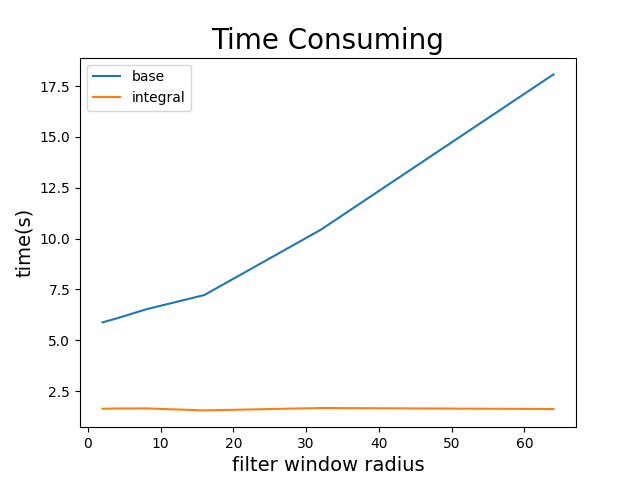
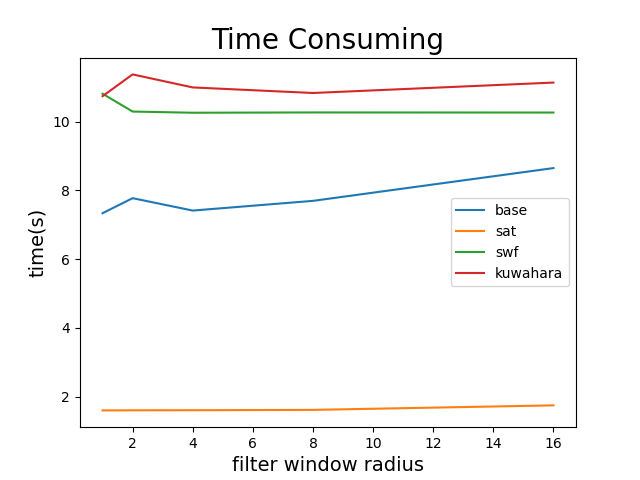
[feat] 添加 kuwaraha 实现

diff --git a/meanFilter/meanFilter.py b/meanFilter/meanFilter.py
@@ -100,7 +100,7 @@ def meanFilterSWF(im, radius):
     im_pad = np.zeros((im_h+2*radius+1, im_w+2*radius+1), im.dtype)
     im_pad[1:, 1:] = padding(im, radius)
 
-    # 计算积分图, nums用于记录每个block像素个数
+    # 计算积分图
     sat = np.cumsum(im_pad, axis=0)
     sat = np.cumsum(sat, axis=1)
 
@@ -173,6 +173,65 @@ def meanFilterSNN(im, radius):
             filtered[r-radius, c-radius] = np.mean(nn)
     return filtered
 
+def meanFilterKuwahara(im, radius):
+    '''
+    ### Docs: kuwahara均值滤波, 使用积分图加速
+        - "Smooth operator: Smoothing seismic interpretations and attributes", 2007
+        - 方差: 转换成一阶及二阶积分图, sum(xi^2)/n - u^2
+    ### Args:
+        - im: H*W, numpy.array, float, 单通道图像数据
+        - radius: int, 滤波窗口半径
+    ### Returns:
+        - filtered: 与 im 相同格式
+    ### Examples:
+    '''
+
+    im_h, im_w = im.shape
+    blk_size = (radius+1) * (radius+1)
+
+    # 向外扩充, 前面左边多增加1行1列, 方便计算
+    im_pad = np.zeros((im_h+2*radius+1, im_w+2*radius+1), im.dtype)
+    im_pad[1:, 1:] = padding(im, radius)
+    im_pad2 = im_pad ** 2
+
+    # 计算积分图
+    sat = np.cumsum(im_pad, axis=0)
+    sat = np.cumsum(sat, axis=1)
+    sat2 = np.cumsum(im_pad2, axis=0)
+    sat2 = np.cumsum(sat2, axis=1)
+
+    # 滤波
+    filtered = np.zeros((im_h, im_w), im.dtype)
+    for r in range(radius+1, im_h+radius+1):
+        bottom_r = r+radius
+        top_r = r-radius-1
+        for c in range(radius+1, im_w+radius+1):
+            right_c = c+radius
+            left_c = c-radius-1
+            blk_LU_std = sat2[r, c] - sat2[top_r, c] - sat2[r, left_c] + sat2[top_r, left_c]
+            blk_LU = sat[r, c] - sat[top_r, c] - sat[r, left_c] + sat[top_r, left_c]
+            blk_LU_std = blk_LU_std - blk_LU ** 2 / blk_size
+
+            blk_LD_std = sat2[bottom_r, c] - sat2[r-1, c] - sat2[bottom_r, left_c] + sat2[r-1, left_c]
+            blk_LD = sat[bottom_r, c] - sat[r-1, c] - sat[bottom_r, left_c] + sat[r-1, left_c]
+            blk_LD_std = blk_LD_std - blk_LD ** 2 / blk_size
+
+            blk_RD_std = sat2[bottom_r, right_c] - sat2[r-1, right_c] - sat2[bottom_r, c-1] + sat2[r-1, c-1]
+            blk_RD = sat[bottom_r, right_c] - sat[r-1, right_c] - sat[bottom_r, c-1] + sat[r-1, c-1]
+            blk_RD_std = blk_RD_std - blk_RD ** 2 / blk_size
+
+            blk_RU_std = sat2[r, right_c] - sat2[top_r, right_c] - sat2[r, c-1] + sat2[top_r, c-1]
+            blk_RU = sat[r, right_c] - sat[top_r, right_c] - sat[r, c-1] + sat[top_r, c-1]
+            blk_RU_std = blk_RU_std - blk_RU ** 2 / blk_size
+
+            stds = [blk_LU_std, blk_LD_std, blk_RD_std, blk_RU_std]
+            means = [blk_LU, blk_LD, blk_RD, blk_RU]
+            idx = np.argmin(stds)
+            
+            filtered[r-radius-1, c-radius-1] = means[idx]
+    filtered = filtered / blk_size
+    return filtered
+
 if __name__ == '__main__':
 
     from PIL import Image
@@ -182,30 +241,13 @@ if __name__ == '__main__':
     im = Image.open(img_path)
     im = np.array(im, dtype=float)
 
-    mean_base = np.zeros(im.shape, im.dtype)
-    mean_sat = np.zeros(im.shape, im.dtype)
-    mean_swf = np.zeros(im.shape, im.dtype)
-    mean_snn = np.zeros(im.shape, im.dtype)
-
     radius = 3
 
+    # base
+    mean_base = np.zeros(im.shape, im.dtype)
     mean_base[:,:,0] = meanFilterBase(im[:,:,0], radius)
     mean_base[:,:,1] = meanFilterBase(im[:,:,1], radius)
     mean_base[:,:,2] = meanFilterBase(im[:,:,2], radius)
-
-    mean_sat[:,:,0] = meanFilterSat(im[:,:,0], radius)
-    mean_sat[:,:,1] = meanFilterSat(im[:,:,1], radius)
-    mean_sat[:,:,2] = meanFilterSat(im[:,:,2], radius)
-
-    mean_swf[:,:,0] = meanFilterSWF(im[:,:,0], radius)
-    mean_swf[:,:,1] = meanFilterSWF(im[:,:,1], radius)
-    mean_swf[:,:,2] = meanFilterSWF(im[:,:,2], radius)
-
-    mean_snn[:,:,0] = meanFilterSNN(im[:,:,0], radius)
-    mean_snn[:,:,1] = meanFilterSNN(im[:,:,1], radius)
-    mean_snn[:,:,2] = meanFilterSNN(im[:,:,2], radius)
-
-    assert (mean_base == mean_sat).all()
 
     plt.figure()
     im_base = Image.fromarray(mean_base.astype('uint8'))
@@ -213,21 +255,51 @@ if __name__ == '__main__':
     plt.axis('off')
     plt.show()
 
+    # 积分图
+    mean_sat = np.zeros(im.shape, im.dtype)
+    mean_sat[:,:,0] = meanFilterSat(im[:,:,0], radius)
+    mean_sat[:,:,1] = meanFilterSat(im[:,:,1], radius)
+    mean_sat[:,:,2] = meanFilterSat(im[:,:,2], radius)
+
     plt.figure()
     im_sat = Image.fromarray(mean_sat.astype('uint8'))
     plt.imshow(im_sat)
     plt.axis('off')
     plt.show()
 
+    # 侧窗
+    mean_swf = np.zeros(im.shape, im.dtype)
+    mean_swf[:,:,0] = meanFilterSWF(im[:,:,0], radius)
+    mean_swf[:,:,1] = meanFilterSWF(im[:,:,1], radius)
+    mean_swf[:,:,2] = meanFilterSWF(im[:,:,2], radius)
+
     plt.figure()
-    im_swf = Image.fromarray(mean_snn.astype('uint8'))
+    im_swf = Image.fromarray(mean_swf.astype('uint8'))
     plt.imshow(im_swf)
     plt.axis('off')
     plt.show()
 
+    # SNN
+    mean_snn = np.zeros(im.shape, im.dtype)
+    mean_snn[:,:,0] = meanFilterSNN(im[:,:,0], radius)
+    mean_snn[:,:,1] = meanFilterSNN(im[:,:,1], radius)
+    mean_snn[:,:,2] = meanFilterSNN(im[:,:,2], radius)
+
     plt.figure()
-    im_snn = Image.fromarray(mean_swf.astype('uint8'))
+    im_snn = Image.fromarray(mean_snn.astype('uint8'))
     plt.imshow(im_snn)
+    plt.axis('off')
+    plt.show()
+
+    # Kuwahara
+    mean_kuwahara = np.zeros(im.shape, im.dtype)
+    mean_kuwahara[:,:,0] = meanFilterKuwahara(im[:,:,0], radius)
+    mean_kuwahara[:,:,1] = meanFilterKuwahara(im[:,:,1], radius)
+    mean_kuwahara[:,:,2] = meanFilterKuwahara(im[:,:,2], radius)
+
+    plt.figure()
+    im_kuwahara = Image.fromarray(mean_kuwahara.astype('uint8'))
+    plt.imshow(im_kuwahara)
     plt.axis('off')
     plt.show()
 

diff --git a/meanFilter/benchMark.py b/meanFilter/benchMark.py
@@ -12,19 +12,18 @@ from PIL import Image
 import matplotlib.pyplot as plt
 import time
 import numpy as np
-from meanFilter import meanFilterBase, meanFilterSat
+from meanFilter import meanFilterBase, meanFilterSat, meanFilterSWF, meanFilterSNN, meanFilterKuwahara
 
-if __name__ == '__main__':
-
+def time_test():
+    '''耗时测试'''
     img_path = '../src/lena.jpg'
     im = Image.open(img_path)
     im = np.array(im, dtype=float)
 
-    filter_size = [2,4,8,16,32,64]
+    filter_size = [1,2,4,8,16]
+
     time_base = np.zeros((len(filter_size,)))
-    time_sat = np.zeros((len(filter_size,)))
     mean_base = np.zeros(im.shape, im.dtype)
-    mean_sat = np.zeros(im.shape, im.dtype)
     for idx, fs in enumerate(filter_size):
         time_start = time.perf_counter()
         mean_base[:,:,0] = meanFilterBase(im[:,:,0], fs)
@@ -32,7 +31,10 @@ if __name__ == '__main__':
         mean_base[:,:,2] = meanFilterBase(im[:,:,2], fs)
         time_end = time.perf_counter()
         time_base[idx] = time_end - time_start
-        
+
+    time_sat = np.zeros((len(filter_size,)))
+    mean_sat = np.zeros(im.shape, im.dtype)
+    for idx, fs in enumerate(filter_size):
         time_start = time.perf_counter()
         mean_sat[:,:,0] = meanFilterSat(im[:,:,0], fs)
         mean_sat[:,:,1] = meanFilterSat(im[:,:,1], fs)
@@ -40,11 +42,106 @@ if __name__ == '__main__':
         time_end = time.perf_counter()
         time_sat[idx] = time_end - time_start
 
+    time_swf = np.zeros((len(filter_size,)))
+    mean_swf = np.zeros(im.shape, im.dtype)
+    for idx, fs in enumerate(filter_size):
+        time_start = time.perf_counter()
+        mean_swf[:,:,0] = meanFilterSWF(im[:,:,0], fs)
+        mean_swf[:,:,1] = meanFilterSWF(im[:,:,1], fs)
+        mean_swf[:,:,2] = meanFilterSWF(im[:,:,2], fs)
+        time_end = time.perf_counter()
+        time_swf[idx] = time_end - time_start
+
+    # time_snn = np.zeros((len(filter_size,)))
+    # mean_snn = np.zeros(im.shape, im.dtype)
+    # for idx, fs in enumerate(filter_size):
+    #     time_start = time.perf_counter()
+    #     mean_snn[:,:,0] = meanFilterSNN(im[:,:,0], fs)
+    #     mean_snn[:,:,1] = meanFilterSNN(im[:,:,1], fs)
+    #     mean_snn[:,:,2] = meanFilterSNN(im[:,:,2], fs)
+    #     time_end = time.perf_counter()
+    #     time_snn[idx] = time_end - time_start
+
+    time_kuwahara = np.zeros((len(filter_size,)))
+    mean_kuwahara = np.zeros(im.shape, im.dtype)
+    for idx, fs in enumerate(filter_size):
+        time_start = time.perf_counter()
+        mean_kuwahara[:,:,0] = meanFilterKuwahara(im[:,:,0], fs)
+        mean_kuwahara[:,:,1] = meanFilterKuwahara(im[:,:,1], fs)
+        mean_kuwahara[:,:,2] = meanFilterKuwahara(im[:,:,2], fs)
+        time_end = time.perf_counter()
+        time_kuwahara[idx] = time_end - time_start
+
     plt.plot(filter_size, time_base)
     plt.plot(filter_size, time_sat)
+    plt.plot(filter_size, time_swf)
+    # plt.plot(filter_size, time_snn)
+    plt.plot(filter_size, time_kuwahara)
     plt.title('Time Consuming', fontsize=20)
     plt.xlabel('filter window radius', fontsize=14)
     plt.ylabel('time(s)', fontsize=14)
-    plt.legend(['base', 'integral'])
+    # plt.legend(['base', 'sat', 'swf', 'snn', 'kuwahara'])
+    plt.legend(['base', 'sat', 'swf', 'kuwahara'])
     plt.savefig('../src/mean_filter_time_cmp.png')
     plt.show()
+
+def effect_test():
+    '''效果测试'''
+
+    img_path = '../src/lena.jpg'
+    im = Image.open(img_path).resize((256,256))
+    im = np.array(im, dtype=float)
+
+    radius = 3
+    run_times = 3
+    
+    mean_base = Image.open(img_path).resize((256,256))
+    mean_base = np.array(mean_base, dtype=float)
+    for i in range(run_times):
+        mean_base[:,:,0] = meanFilterBase(mean_base[:,:,0], radius)
+        mean_base[:,:,1] = meanFilterBase(mean_base[:,:,1], radius)
+        mean_base[:,:,2] = meanFilterBase(mean_base[:,:,2], radius)
+
+    mean_sat = Image.open(img_path).resize((256,256))
+    mean_sat = np.array(mean_sat, dtype=float)
+    for i in range(run_times):
+        mean_sat[:,:,0] = meanFilterSat(mean_sat[:,:,0], radius)
+        mean_sat[:,:,1] = meanFilterSat(mean_sat[:,:,1], radius)
+        mean_sat[:,:,2] = meanFilterSat(mean_sat[:,:,2], radius)
+
+    mean_swf = Image.open(img_path).resize((256,256))
+    mean_swf = np.array(mean_swf, dtype=float)
+    for i in range(run_times):
+        mean_swf[:,:,0] = meanFilterSWF(mean_swf[:,:,0], radius)
+        mean_swf[:,:,1] = meanFilterSWF(mean_swf[:,:,1], radius)
+        mean_swf[:,:,2] = meanFilterSWF(mean_swf[:,:,2], radius)
+
+    mean_snn = Image.open(img_path).resize((256,256))
+    mean_snn = np.array(mean_snn, dtype=float)
+    for i in range(run_times):
+        mean_snn[:,:,0] = meanFilterSNN(mean_snn[:,:,0], radius)
+        mean_snn[:,:,1] = meanFilterSNN(mean_snn[:,:,1], radius)
+        mean_snn[:,:,2] = meanFilterSNN(mean_snn[:,:,2], radius)
+
+    mean_kuwahara = Image.open(img_path).resize((256,256))
+    mean_kuwahara = np.array(mean_kuwahara, dtype=float)
+    for i in range(run_times):
+        mean_kuwahara[:,:,0] = meanFilterKuwahara(mean_kuwahara[:,:,0], radius)
+        mean_kuwahara[:,:,1] = meanFilterKuwahara(mean_kuwahara[:,:,1], radius)
+        mean_kuwahara[:,:,2] = meanFilterKuwahara(mean_kuwahara[:,:,2], radius)
+
+    im_pair1 = np.concatenate((im, mean_base, mean_sat), axis=1)
+    im_pair2 = np.concatenate((mean_swf, mean_snn, mean_kuwahara), axis=1)
+    im_pair = np.concatenate((im_pair1, im_pair2), axis=0)
+    im_pair = Image.fromarray(im_pair.astype('uint8'))
+    im_pair.save('../src/original-base-sat-swf-snn-kuwahara.png')
+
+    plt.imshow(im_pair)
+    plt.title('effect of numerical filter:\noriginal, base, sat, swf, snn, kuwahara', fontsize=14)
+    plt.axis('off')
+    plt.show()
+
+if __name__ == '__main__':
+
+    time_test()
+    # effect_test()
